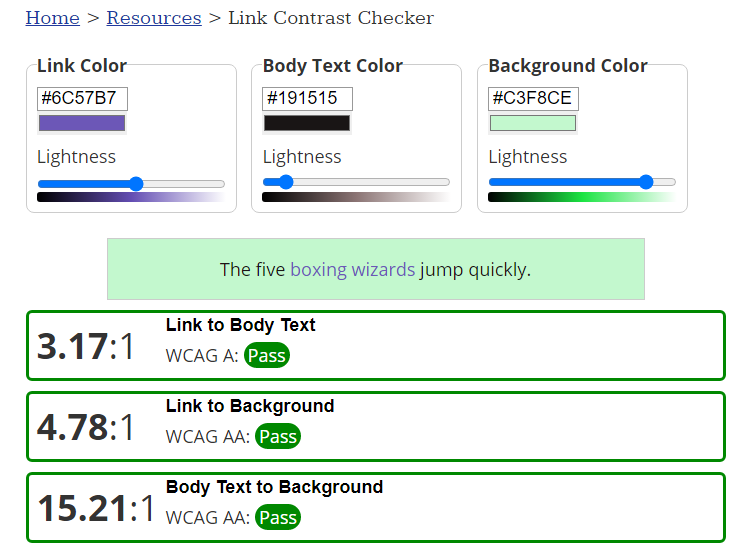
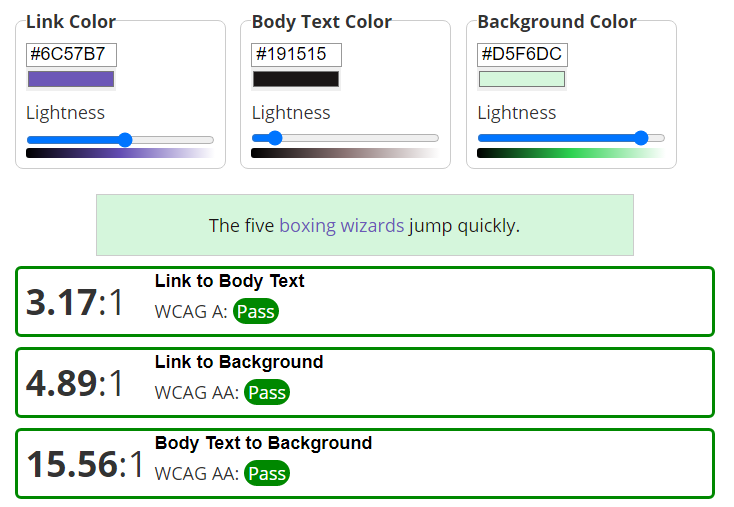
Add media queries for large and medium screen sizes. Update readme with color changes.

Changed region(s): [[0.0, 0.0296, 0.9891, 1.0], [0.03, 0.0, 0.5995, 0.0592], [0.03, 0.0888, 0.1798, 0.2367]]

diff --git a/assets/css/style.css b/assets/css/style.css
@@ -233,8 +233,85 @@ footer{
 
 /** Media Queries **/
 
+/* For large screens sizes from 1250px wide and down */
+@media screen and (max-width: 1250px) {
+
+    #instructions {
+        margin-right: 50px;
+    }
+
+    #fun-fact1 {
+        padding-right: 100px;
+    }
+   
+    #fun-fact2 {
+        padding-left: 100px;
+    }
+
+    #hero-image {
+        padding-left: 50px;
+    }
+}
+
+/* For medium screens sizes from 1050px wide and down */
+@media screen and (max-width: 1050px) {
+
+    #title {
+        margin-left: 200px;
+    }
+
+    #instructions {
+        margin-right: 10px;
+        width: 550px;
+    }
+
+    #hero-image {
+        padding-left: 20px;
+    }
+
+    #fun-fact1 {
+        padding-right: 50px;
+    }
+   
+    #fun-fact2 {
+        padding-left: 50px;
+    }
+}
+
+/* For medium screens sizes from 950px wide and down */
+@media screen and (max-width: 950px) {
+
+#title {
+        margin-left: 100px;
+        padding-top: 20px;
+    }
+
+    #instructions {
+        width: 500px;
+        margin-right: 20px;
+    }
+
+    #hero-image {
+        padding-left: 5px;
+    }
+
+    #h-image {
+        width: 300px;
+        height: 300px;
+    }
+
+    #fun-fact1 {
+        padding-right: 20px;
+    }
+   
+    #fun-fact2 {
+        padding-left: 20px;
+    }
+}
+
 /* For small screen sizes from 850px wide and down */
 @media screen and (max-width: 850px) {
+
     #title {
         font-size: x-large;
         margin-left: 50px;

diff --git a/README.md b/README.md
@@ -68,7 +68,8 @@ I used Balsamiq to create the wireframes.
 ## Surface
 ### Colors
 The main colors used in this project:
-* Background color: Granny apple #C3F8CE
+* Header background color: Granny apple #C3F8CE
+* Background color: Granny apple #D5F6DC
 * Font color: Seal brown #191515
 * Link & hover color: Blue Marguerite #6C57B7
     * Initially I was going to use Bilboa green #317213 for the link and hover text, but during initial development I realised the color contrast was not great enough.
